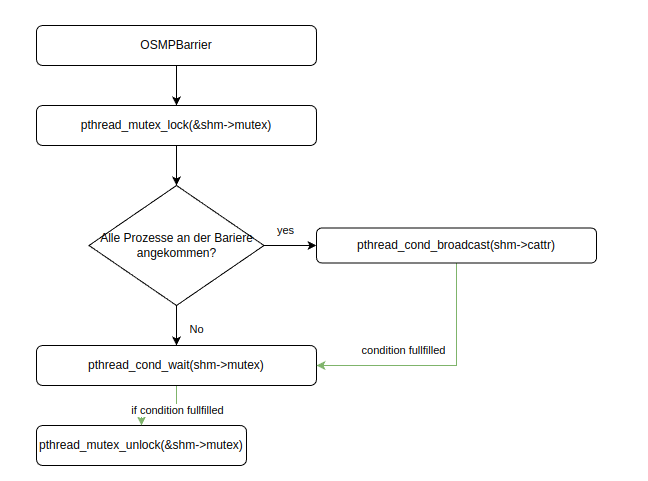
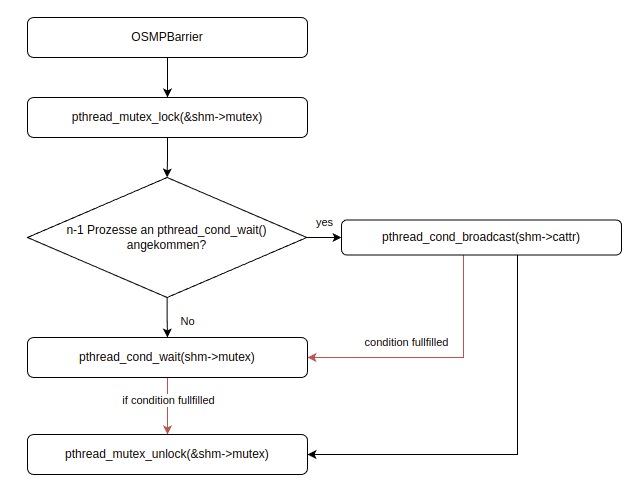
Readme Update

diff --git a/README.md b/README.md
@@ -48,7 +48,6 @@ typedef struct {
     OSMP_Datatype datatype;
     int msgLen;
     int nextMsg;
-    pthread_cond_t read;
 } message;
 ```
 
@@ -65,7 +64,7 @@ Dieses Array hat als Inhalt die eigendliche Nachticht und wird zu anfang auf die
 - *`OSMP_Datatype datatype;`*
 Der Datentyp der Nachricht
 - *`int msgLen;`*
-Länge der Nachricht
+Länge der Nachrich
 - *`int nextMsg;`*
 Das ist die Slot-ID der nächsten Nachricht.
 
@@ -139,34 +138,62 @@ Der Logging-Path, der übergeben wird
 
 ## Semaphoren-Verwaltung
 
-Hier sind die Mutex- und die Semaphorennutzung in unserem OSMP-Projekt erklärt. Wir verwenden in unserem Programm insgesammt 3 Semaphoren,    
+Hier sind die Mutex- und die Semaphorennutzung in unserem OSMP-Projekt erklärt:
+
+Wir verwenden in unserem Programm insgesammt 3 Semaphoren. Ein Semaphore ist für die Messages, und ist dafür zuständig, die Prozesse zu blockieren, wenn mehr als 256 Nachrichten existieren. Die beiden anderen, sind jeweils dafür da, die schreibenden Prozesse warten zu lassen, wenn der Postkasten voll ist und die lesenden Prozesse warten zu lassen, wenn der Postkasten leer ist. 
 
 ### OSMP_Barrier
 
-![Untitled](./Images/OSMP_Barrier.png)
+Der Aufruf pthread_mutex_lock blockiert den Zugriff auf den Mutex durch andere Prozesse und sperrt den Mutex. Es wird überprüft ob n-1 Prozesse bereits die Barriere erreicht haben Wenn die Bedingung falsch ist, wird der Prozess in eine Warteschleife gebracht, indem pthread_cond_wait aufgerufen wird. Dadurch wird der Thread in einen wartenden Zustand versetzt und der Mutex wird freigegeben, um anderen Prozessen den Zugriff auf den Mutex zu ermöglichen. Wenn die Bedingung wahr ist, werden die folgenden Schritte ausgeführt:
 
-### OSMP_Size/OSMP_Bcast
+1. pthread_cond_broadcast(&shm->cattr) wird aufgerufen und befreit alle wartenden Prozesse.
+2. Prozess n ruft pthread_mutex_unlock auf und ermöglicht einem Prozess aus der Warteschleife zu kommen.
 
-![Untitled](./Images/OSMP_Size_Bcast.png)
+Wenn der Prozess aus der Warteschleife herauskommt (Durch den pthread_cond_broadcast und dem danach folgendem unlock), versucht er erneut, den Mutex zu sperren und die Bedingung zu überprüfen. Wenn die Bedingung wahr ist, wird pthread_mutex_unlock aufgerufen, wenn jedoch die Bedingung weiterhin falsch ist, kehrt der Prozess in die Warteschleife zurück. Dies wird wiederholt, bis alle Prozesse die Barrier verlassen haben.
 
-### OSMP_Wait/tOSMP_Test
+![OSMP_Barrier](./Images/OSMP_Barrier.png)
 
-![Untitled](./Images/OSMP_Wait_Test.png)
+### OSMP_Bcast
 
-### OSMP_Send/OSMP_Recieve
+Die OSMP_Bcast schaut als erstes, ob die Funktion vom senden oder den Empangenden Prozessen aufgerufen wurde. Die Mutexe sind bei den beiden Funktionen gleich. Es wird versucht die Mutex zu locken, damit die Prozesse nicht gegenseitig schreiben. Danach werden die Messages beschrieben, und dann der Mutex wieder freigegeben. 
 
-![Untitled](./Images/OSMP_Send_Recv.png)
+![OSMP_Bcast](./Images/OSMP_Bcast.png)
 
-### *ircv/\*isend
+### OSMP_Send
 
-![Untitled](./Images/OSMP_ircv_isnd.png)
+Die OSMP_Send prüft zuerst, ob die empty-Mutex frei ist, diese wird beim initialisieren auf 16 gesetzt. Wenn noch keine 16 Nachrichten angekommen sind kann der Prozess weitergehen, und zählt die Semaphore um eins nach unten. Danach wird der Mutex des shared-memorys angefordert, und sobald das funktioniert hat, der Shared-Memory des empfangenden Prozesses beschreiben. Danach wird die Mutex wieder freigegeben, und sem_post aufgerufen, sodass der (wartende) Empfängerprozess seine Nachricht lesen kann. 
 
-### OSMP_ISend/IRecv
+![OSMP_Send](./Images/OSMP_Send.png)
 
-![Untitled](./Images/OSMP_ISend_IRecv.png)
+### OSMP_Recv
 
-Bei der OSMP_Isend und OSMP_Ircv wird der Mutex der Request jedes mal gelockt, sobald der Thread erstellt und übergeben wird. Dadurch kann nämlich vermieden werden, dass Isend gleichzeitig die Threadnummer in den Thread schreibt und die Variablen des Structs an die OSMP_Send weitergibt.
+Die OSMP_Send prüft zuerst, ob die full-Mutex frei ist, diese wird beim initialisieren auf 0 gesetzt. Wenn mindestens eine Nachricht angekommen sind kann der Prozess weitergehen, und zählt die Semaphore um eins nach oben. Danach wird der Mutex des shared-memorys angefordert, und sobald das funktioniert hat, der Shared-Memory des eigenen Prozesses gelesen. Danach wird die Mutex wieder freigegeben, und sem_post aufgerufen, sodass der (wartende) Sende-Prozess seine Nachricht schreiben kann. 
 
+![OSMP_Recv](./Images/OSMP_Recv.png)
+
+### OSMP_Size
+
+Im der Funktion wird der mutex des SharedMems verwendet, um die Anzahl der Prozesse zurückzugeben. Der Zugriff auf den SharedMemory ist blockiert, solange der Mutex gesperrt ist. Sobald die Variable ausgelesen wurde, wird der Mutex freigegeben.
+
+![OSMP_Size](./Images/OSMP_Size.png)
+
+### *isend / *ircv
+
+Die Mutexe dienen hier dazu, die Requests vor gleichzeitigen Zugriffen zu schützen. Zunächst wird der Mutex des Requests gelockt, bevor die Parameter in das IRequest-Struct kopiert werden. Danach wird der Thread erstellt und die Mutex wieder freigegeben. Dadurch wird sichergestellt, dass kein anderer Thread auf den Request zugreift, bevor dieser vollständig initialisiert wurde.
+
+![*isend und *ircv](./Images/isend_ircv.png)
+
+### OSMP_ISend
+
+Um gleichzeitige Zugriffe auf den Request zu vermeiden, wird zunächst der Mutex der Request-Struktur gesperrt. Anschließend werden die Parameter des Requests auf die Funktion übertragen und ein neuer Thread wird erstellt, der die Funktion isend ausführt. Sobald der Thread erstellt wurde, wird der Mutex der Request-Struktur wieder freigegeben, damit andere Prozesse auf den Request zugreifen können.
+
+![OSMP_ISend](./Images/OSMP_ISend.png)
+
+### OSMP_Irecv
+
+Zunächst wird der Mutex der IRequest-Struktur, auf die der Request zeigt, gesperrt, um gleichzeitige Zugriffe auf den Request zu vermeiden. Danach werden die Parameter des Requests auf die Parameter der Funktion kopiert. Anschließend wird ein neuer Thread erstellt, der mit der Funktion ircv aufgerufen wird. Sobald der Thread erstellt wurde, wird der Mutex der Request-Struktur wieder freigegeben, damit andere Prozesse auf den Request zugreifen können.
+
+![OSMP_IRecv](./Images/OSMP_IRecv.png)
 #
 #
 #
